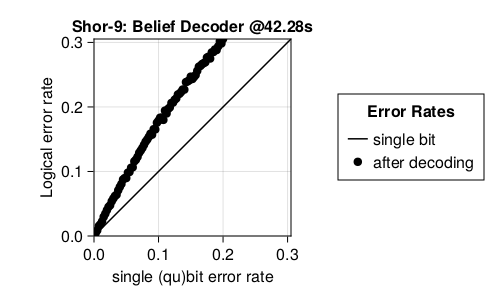
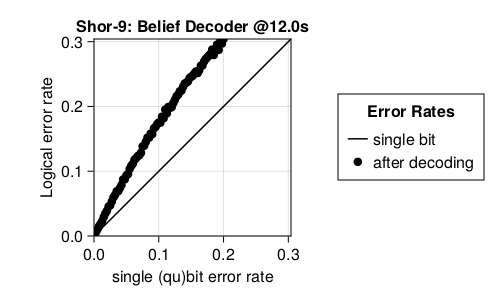
Updated markdown pages and gen method
- Belief propagation image no specified correctly in files, fixed that

diff --git a/docs/codes/example.md b/docs/codes/example.md
@@ -1,4 +1,4 @@
-# {Code Name}
+# Example
 
 ## Description
  - This is a test code
@@ -9,24 +9,26 @@
 ## Example
 Code Tableau:
 ___XXXX
-        _XX__XX
-        X_X_X_X
-        ___ZZZZ
-        _ZZ__ZZ
-        Z_Z_Z_Z
+_XX__XX
+X_X_X_X
+___ZZZZ
+_ZZ__ZZ
+Z_Z_Z_Z
 - Number of qubits: N = 7
 - Number of encoded bits: k = 1
 ### Syndrome Circuit:
-![example Syndrome Circuit](images\codeplots\example-codeplot.png)
+![example Syndrome Circuit](../../src/pages/images/codeplots/example-codeplot.png)
 
 ## Benchmarking Results
 This code was tested with the following decoders:
-**Lookup table:** Ran in 0.3957s
+**Lookup table:** Ran in 0.3921s
 ![example Truth Table PP](images\performanceplots\example-lookuptable.png)
-**Belief decoder:** Ran in 7.49s
-![example Belief Decoder PP](images\performanceplots\example-belief.png)
+**Belief decoder:** Ran in 22.25s
+![example Belief Decoder PP](images\performanceplots\example-beliefa.png)
 
 ## 
+
+## ["QASM Downloads", "[QASM Encoding Circuit](QASMDownloads\\example-encodingCircuit.qasm)"]
 
 ## Similar Codes 
 - **[sample name](sample link)**: short desc

diff --git a/docs/codes/Steane-7.md b/docs/codes/Steane-7.md
@@ -15,14 +15,14 @@ Z_Z_Z_Z
 - Number of qubits: N = 7
 - Number of encoded bits: k = 1
 ### Syndrome Circuit:
-![Steane-7 Syndrome Circuit](images\codeplots\Steane-7-codeplot.png)
+![Steane-7 Syndrome Circuit](../../src/pages/images/codeplots/Steane-7-codeplot.png)
 
 ## Benchmarking Results
 This code was tested with the following decoders:
-**Lookup table:** Ran in 0.3927s
+**Lookup table:** Ran in 0.3263s
 ![Steane-7 Truth Table PP](images\performanceplots\Steane-7-lookuptable.png)
-**Belief decoder:** Ran in 7.398s
-![Steane-7 Belief Decoder PP](images\performanceplots\Steane-7-belief.png)
+**Belief decoder:** Ran in 7.388s
+![Steane-7 Belief Decoder PP](images\performanceplots\Steane-7-beliefa.png)
 
 ## 
 

diff --git a/docs/codes/Bicycle.md b/docs/codes/Bicycle.md
@@ -14,14 +14,14 @@ Z__ZZZ_
 - Number of qubits: N = 7
 - Number of encoded bits: k = 3
 ### Syndrome Circuit:
-![Bicycle Syndrome Circuit](images\codeplots\Bicycle-codeplot.png)
+![Bicycle Syndrome Circuit](../../src/pages/images/codeplots/Bicycle-codeplot.png)
 
 ## Benchmarking Results
 This code was tested with the following decoders:
-**Lookup table:** Ran in 0.4064s
+**Lookup table:** Ran in 0.4039s
 ![Bicycle Truth Table PP](images\performanceplots\Bicycle-lookuptable.png)
-**Belief decoder:** Ran in 15.42s
-![Bicycle Belief Decoder PP](images\performanceplots\Bicycle-belief.png)
+**Belief decoder:** Ran in 13.44s
+![Bicycle Belief Decoder PP](images\performanceplots\Bicycle-beliefa.png)
 
 ## 
 

diff --git a/docs/codes/Shor-9.md b/docs/codes/Shor-9.md
@@ -16,14 +16,14 @@ ___XXXXXX
 - Number of qubits: N = 9
 - Number of encoded bits: k = 1
 ### Syndrome Circuit:
-![Shor-9 Syndrome Circuit](images\codeplots\Shor-9-codeplot.png)
+![Shor-9 Syndrome Circuit](../../src/pages/images/codeplots/Shor-9-codeplot.png)
 
 ## Benchmarking Results
 This code was tested with the following decoders:
-**Lookup table:** Ran in 1.866s
+**Lookup table:** Ran in 0.3843s
 ![Shor-9 Truth Table PP](images\performanceplots\Shor-9-lookuptable.png)
-**Belief decoder:** Ran in 42.28s
-![Shor-9 Belief Decoder PP](images\performanceplots\Shor-9-belief.png)
+**Belief decoder:** Ran in 12.0s
+![Shor-9 Belief Decoder PP](images\performanceplots\Shor-9-beliefa.png)
 
 ## 
 
